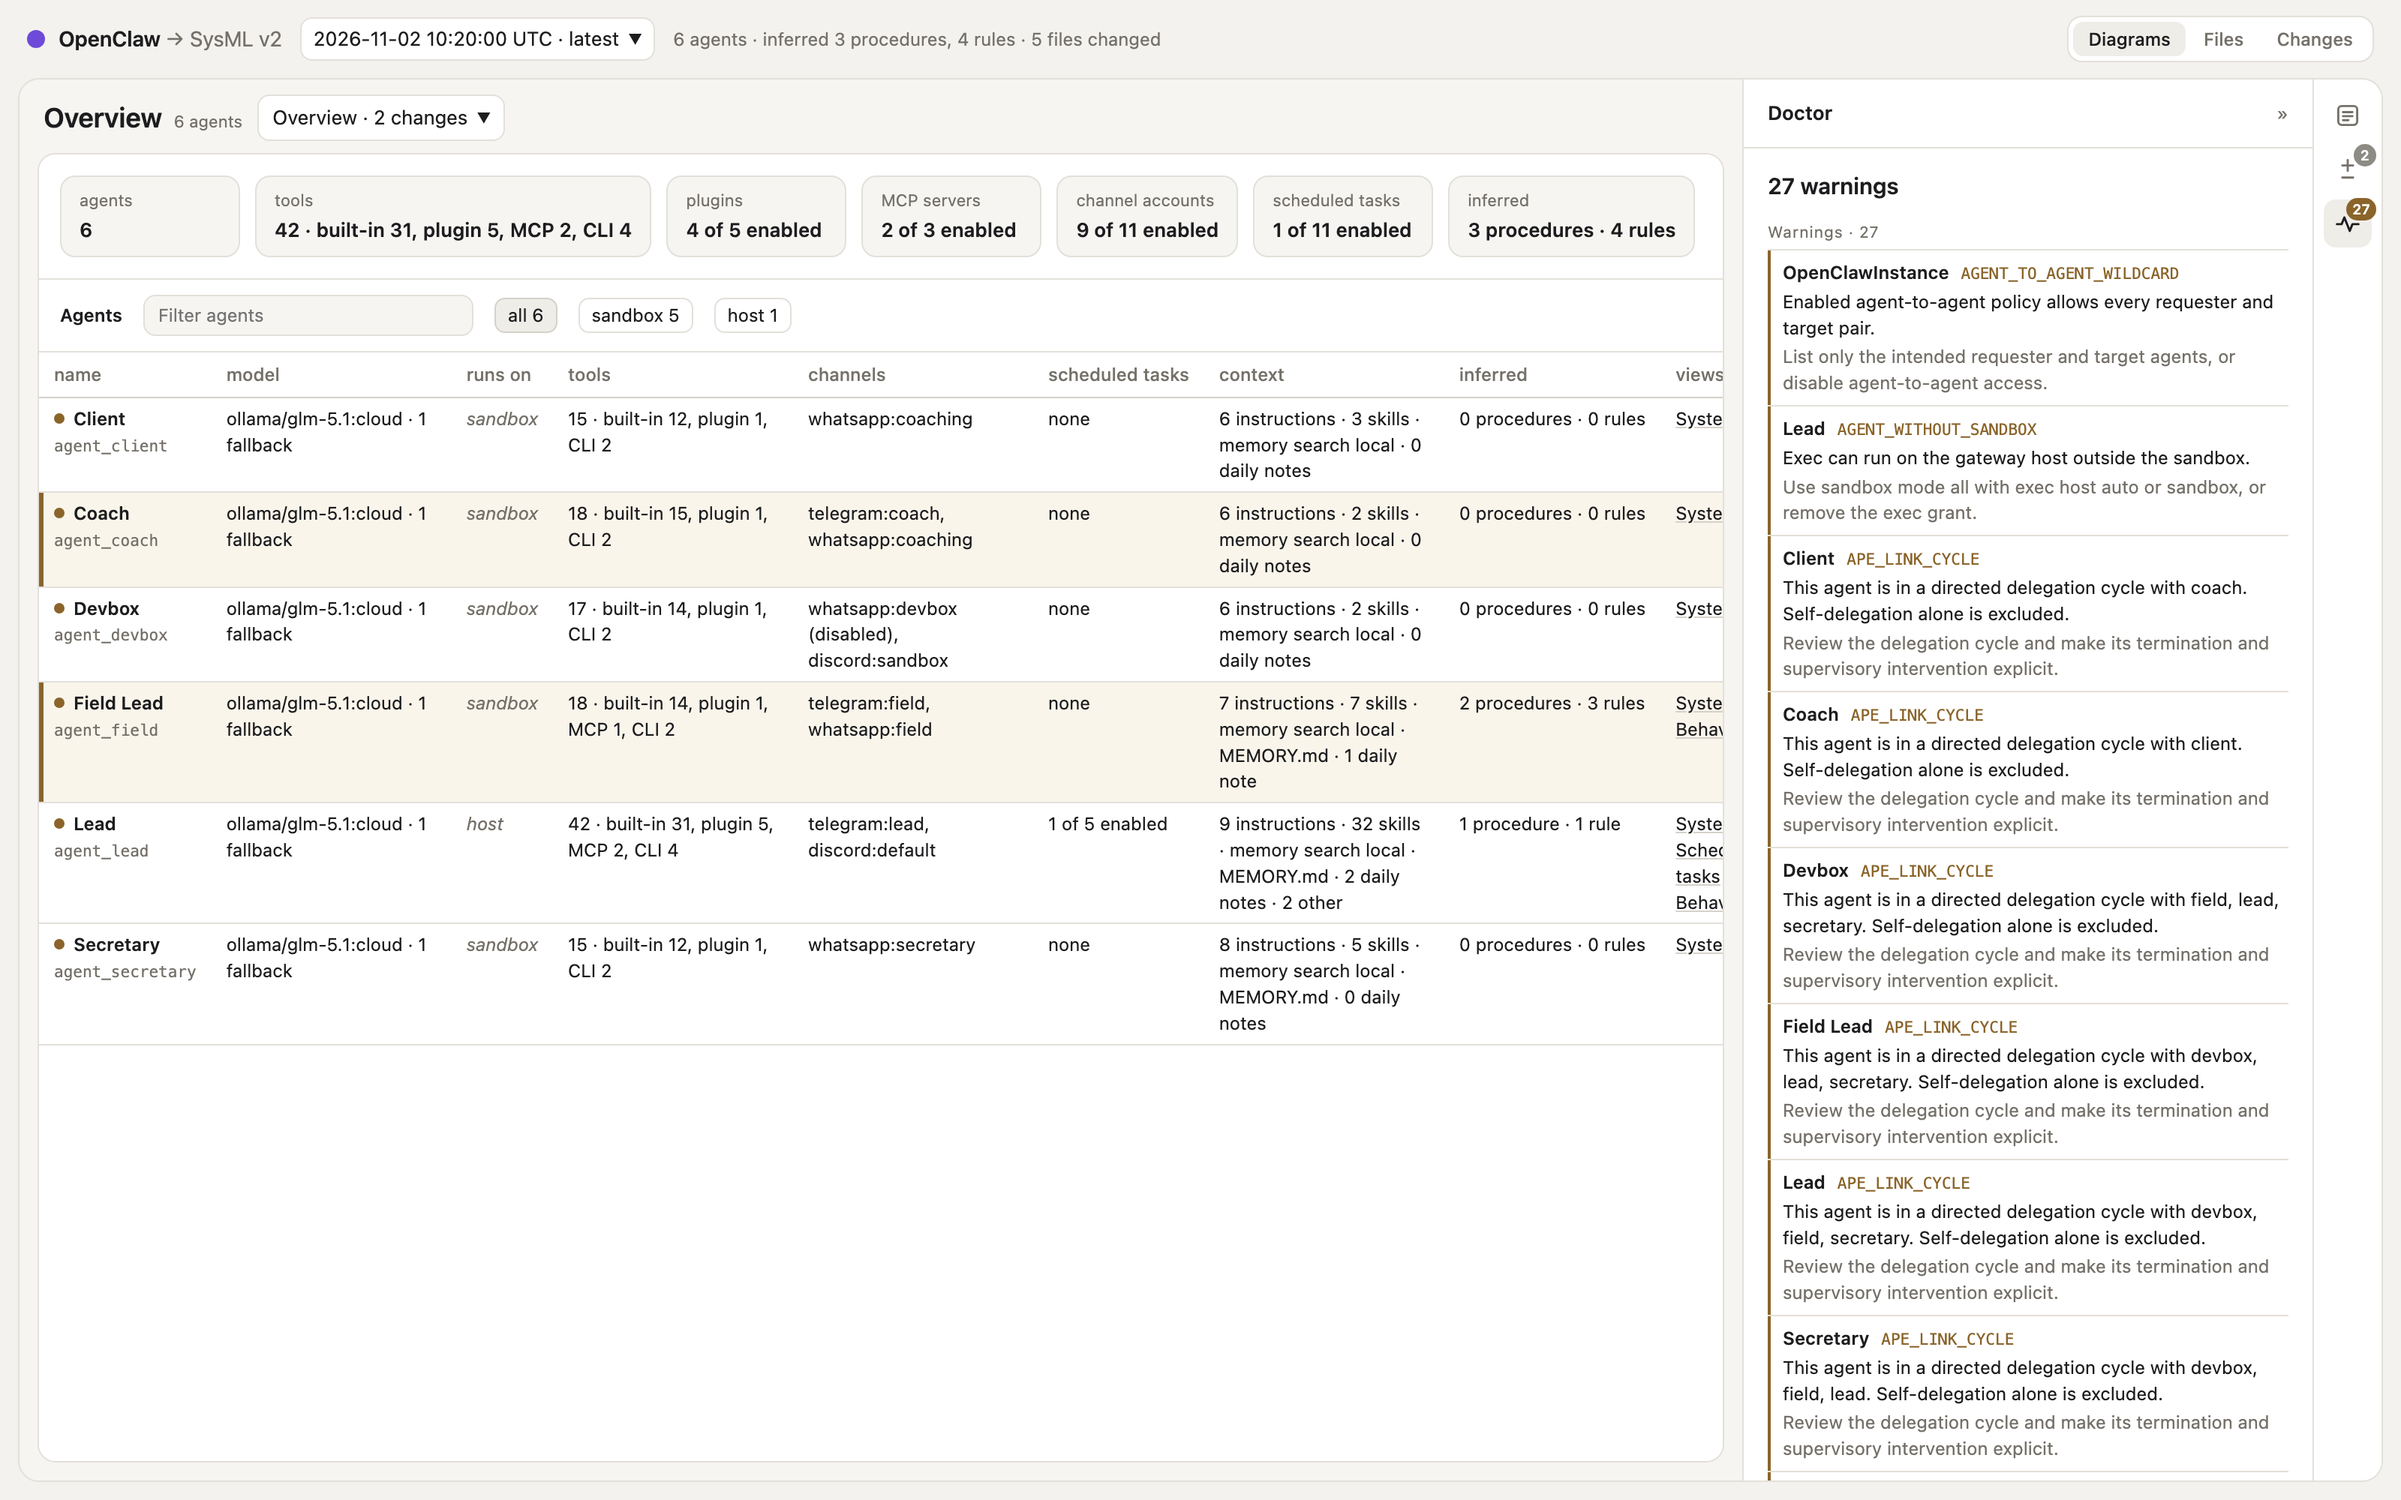
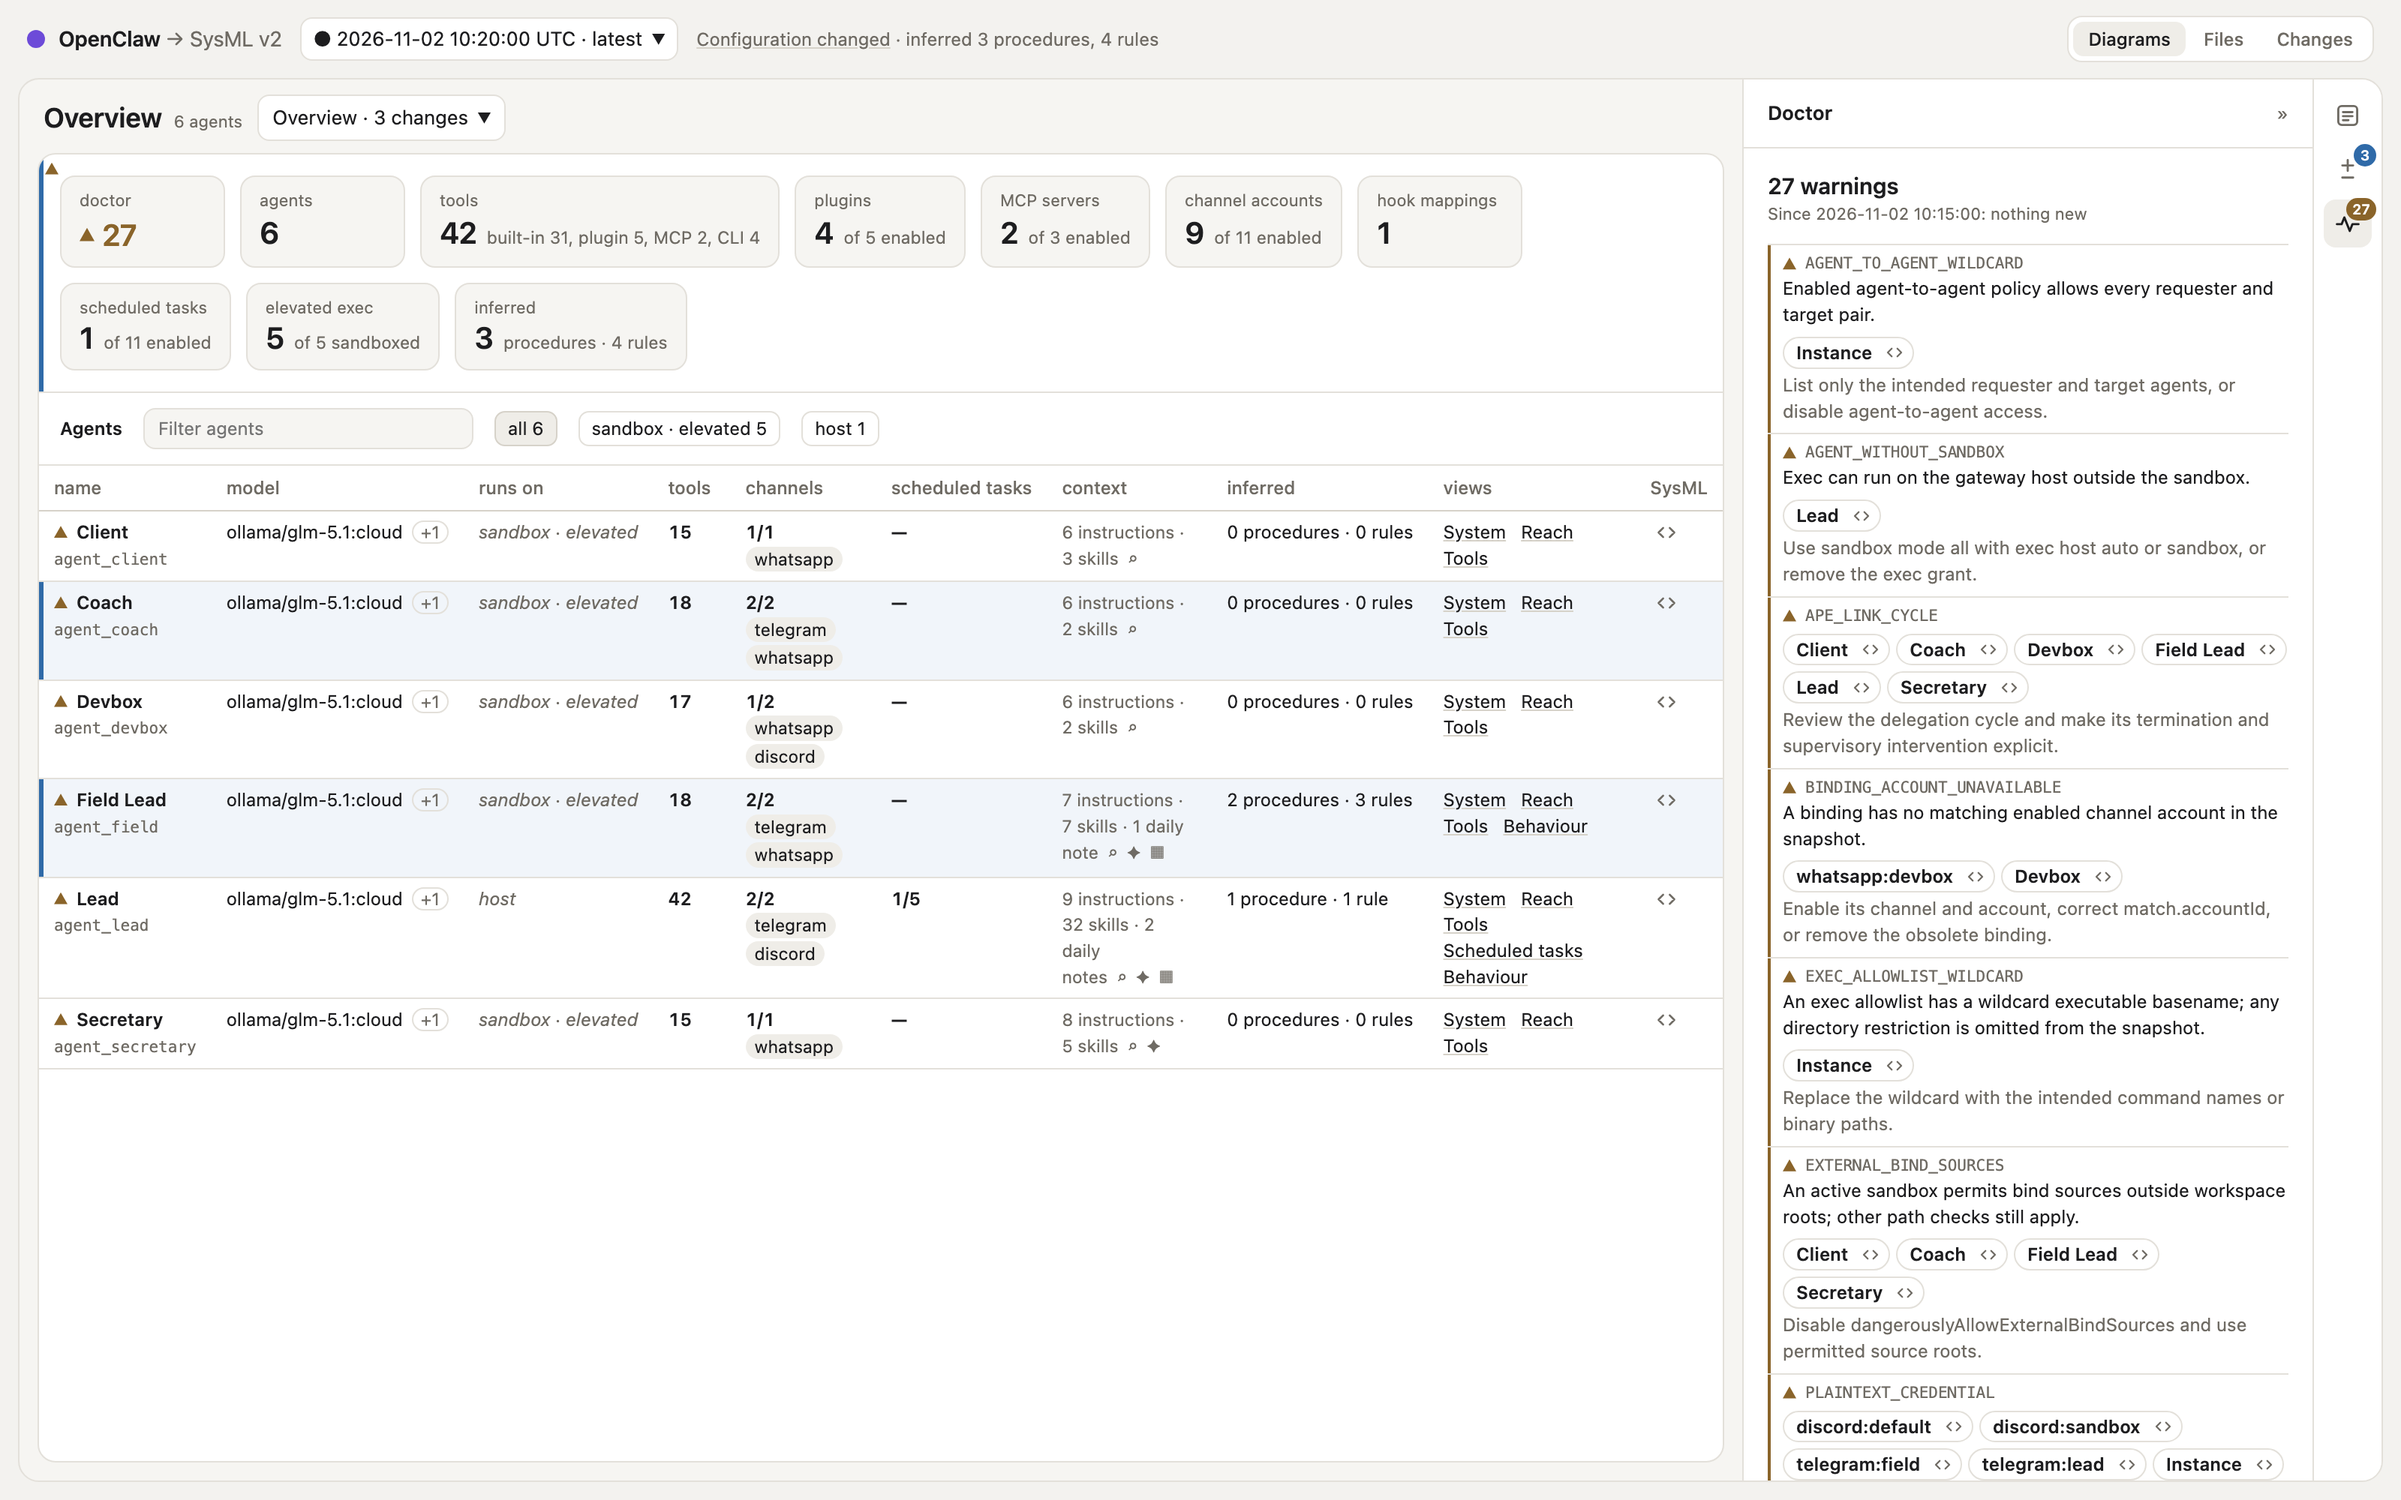
docs(readme): refresh the screenshots for 0.3.0 and show Reach

diff --git a/README.md b/README.md
@@ -85,7 +85,9 @@ an export or change the instance. If the bundled Toolkit is missing or damaged,
 validation fails with `TOOLKIT_INTEGRITY`, model checks do not run, and the
 collector notes from the snapshot remain available.
 
-![The Doctor panel: each finding with the element it concerns and its fix](docs/screenshots/doctor.png)
+![The Doctor panel: findings grouped by code, each subject a chip, with what to do](docs/screenshots/doctor.png)
+
+![Reach: who can delegate to whom, with a delegation cycle lit from the Doctor](docs/screenshots/reach.png)
 
 [Diagnostics](docs/diagnostics.md) lists every code, its source in OpenClaw and
 its fix. To check an exported model without changing it, run
